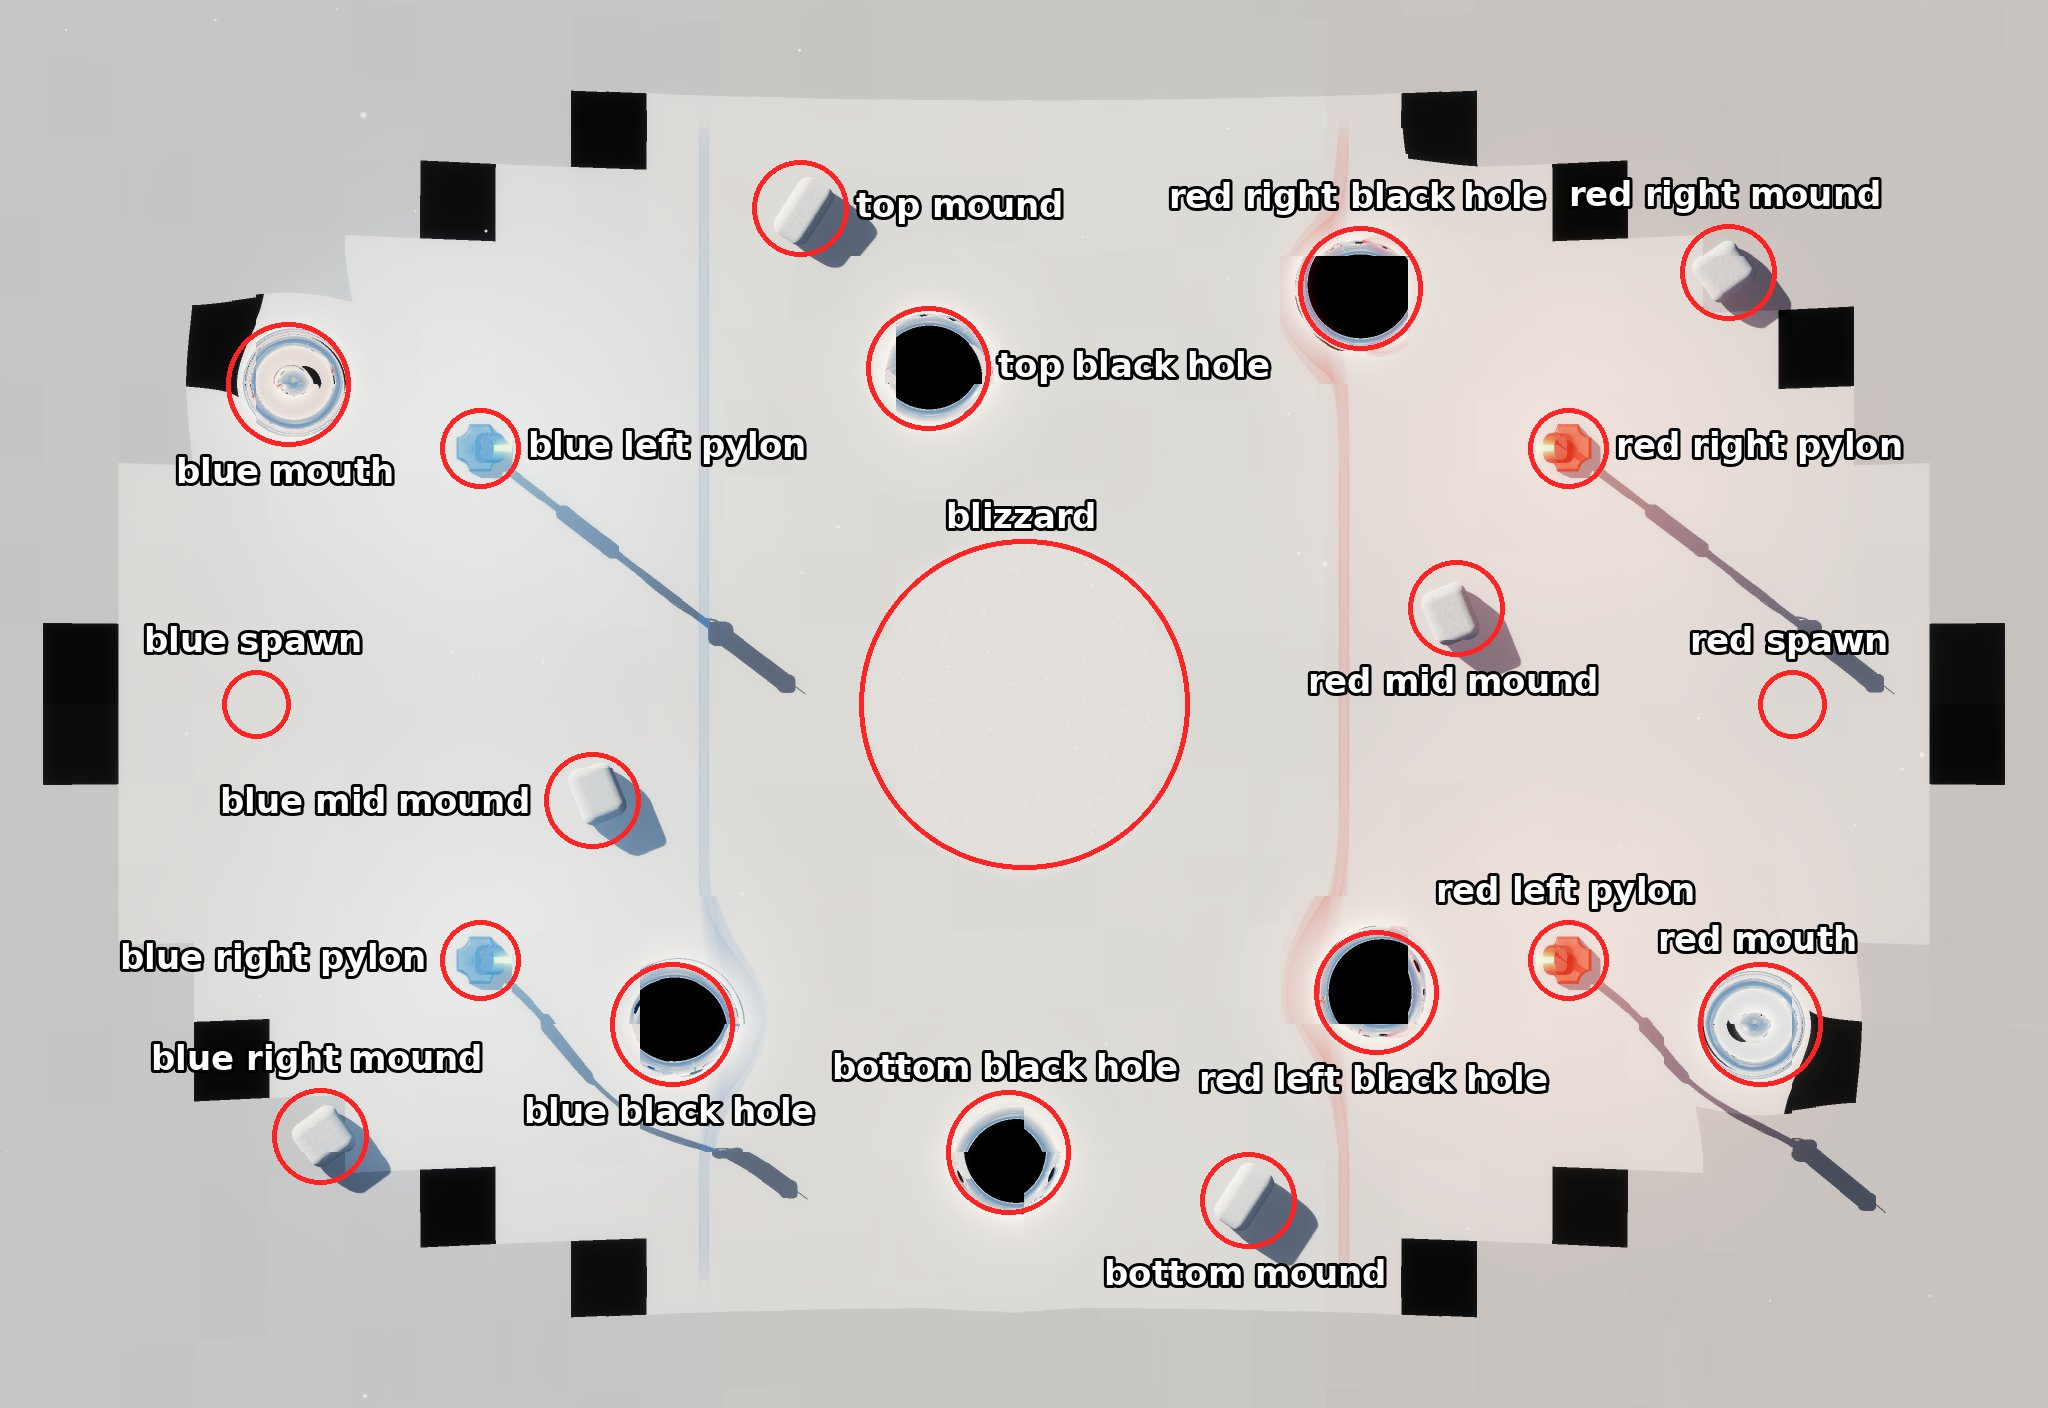
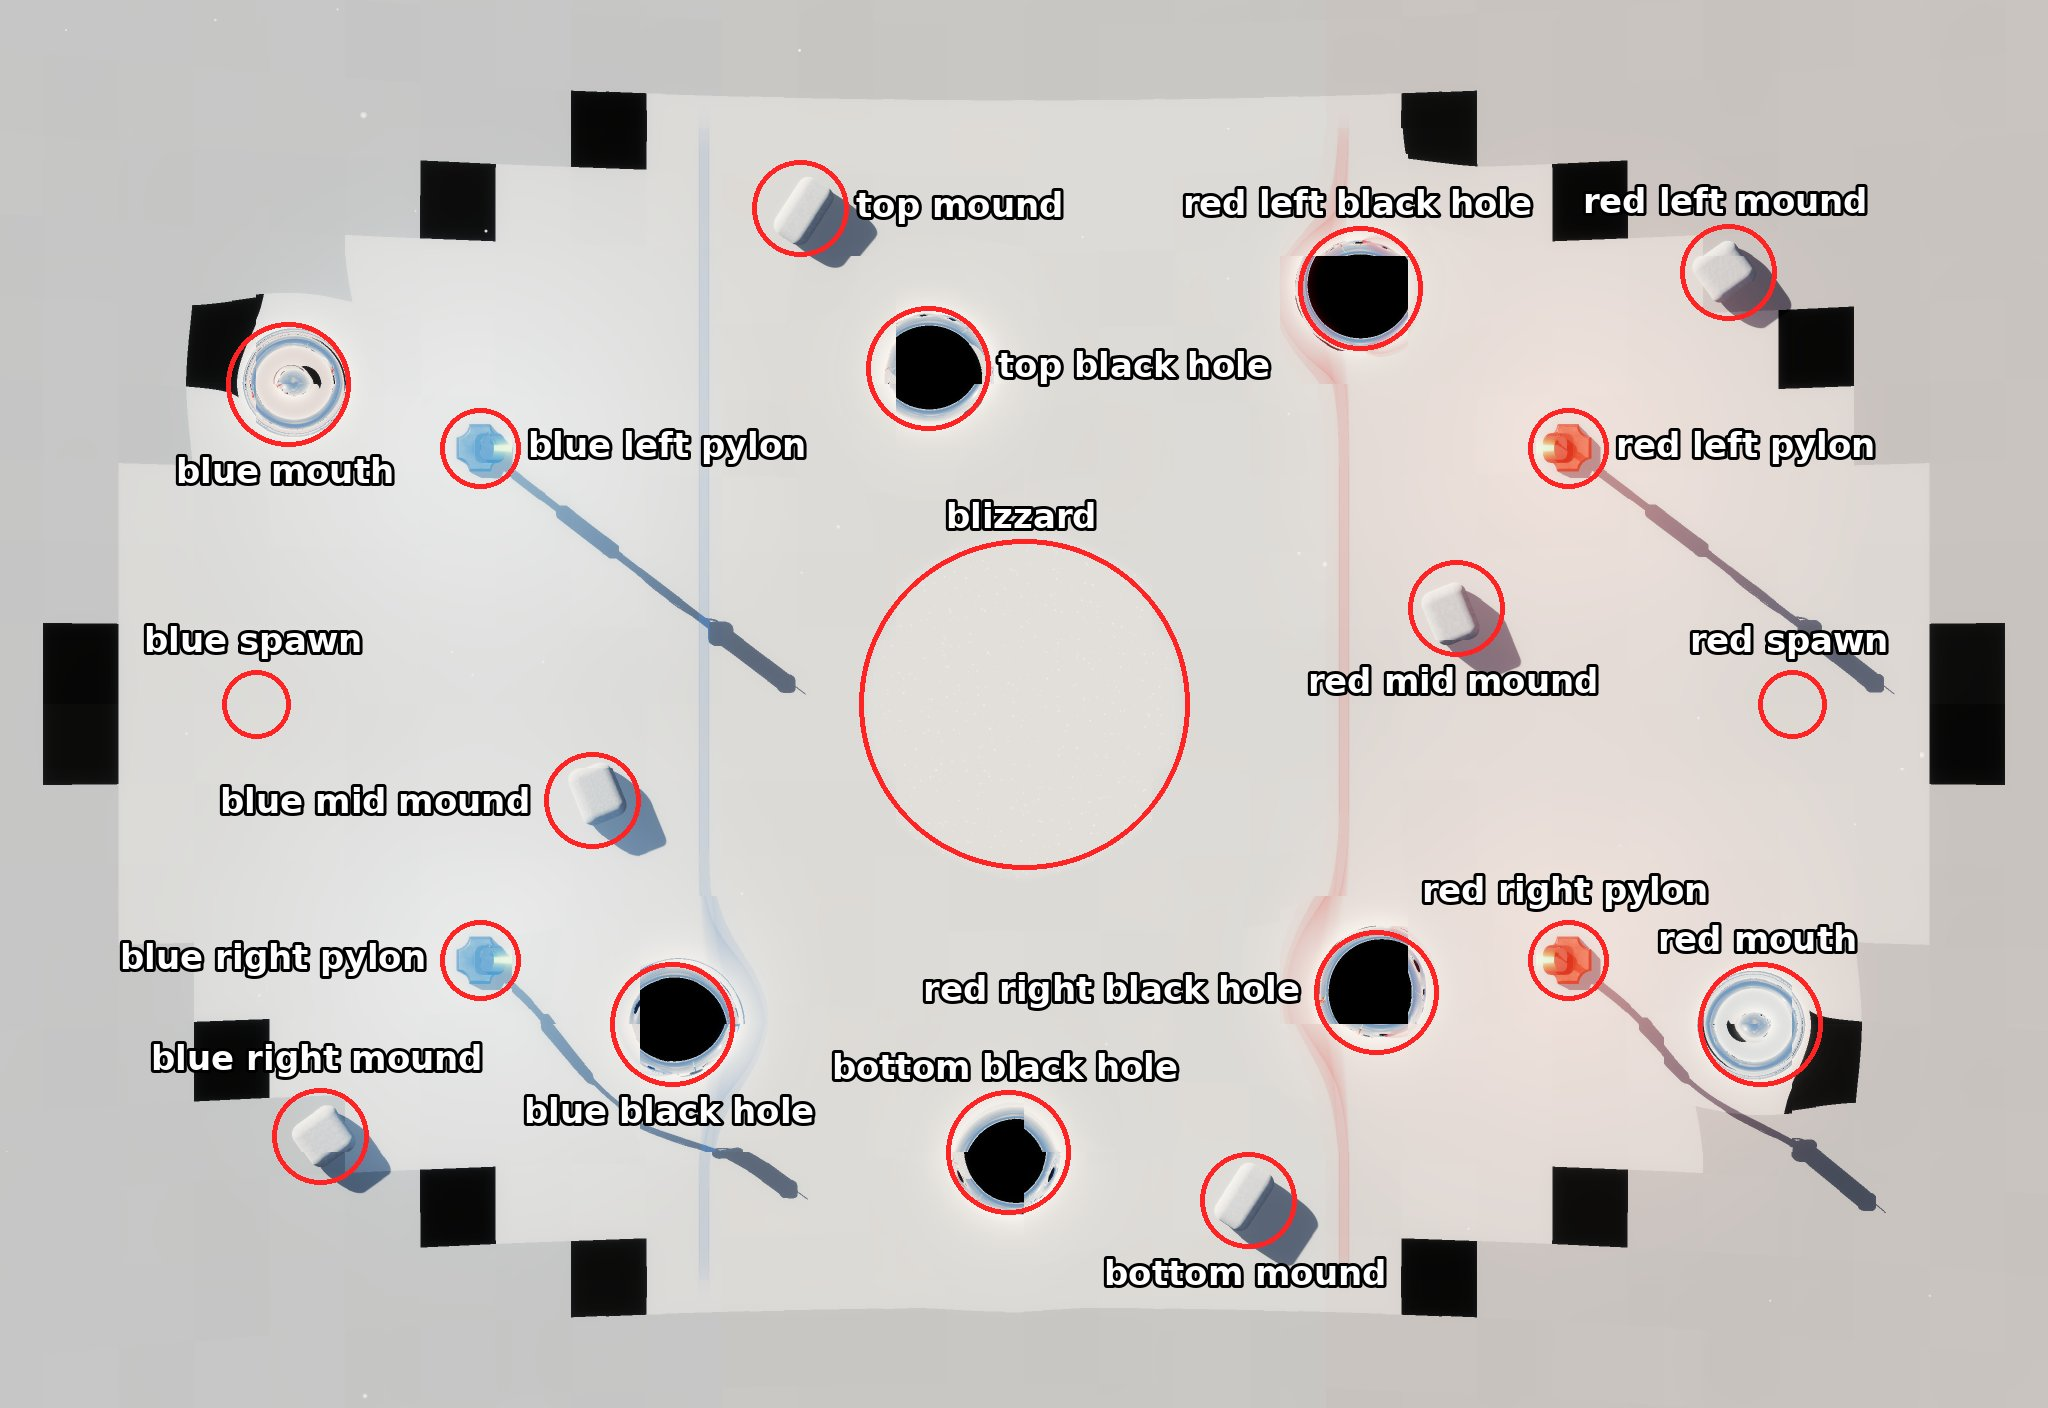
docs(game_design): Snow Planet's world names red's objects from blue's side
Red's left and right pylons, mound and black holes swap names, in the
file and on the picture, so that left, mid and right are seen from
blue's spawn as the worlds README now says. The picture was redrawn
by the same scratch script with only those names swapped.

AGENT TRACES

* Cursor Cloud Agent claude-opus-5-5-high, trace bc-94920122-6130-4e3d-bf9f-13da367e9d4c, cloud
  contributed: renamed red's left and right objects and redrew the picture
  workspace: /home/ubuntu/wt-reorder, branch cursor/world-snow-planet-9d4c
  transcript: https://cursor.com/agents/bc-94920122-6130-4e3d-bf9f-13da367e9d4c
  read it: open https://cursor.com/agents/bc-94920122-6130-4e3d-bf9f-13da367e9d4c

Kind: docs, design
Component: game-design
Domain: level-layout
Area: game_design
Read: game_design/worlds/README.md, game_design/worlds/snow_planet.md
Verify: each of red's new left objects is on blue's left in common/maps/snow_planet/map.json (black hole south-east, x < 0); nothing was run

diff --git a/game_design/worlds/snow_planet.md b/game_design/worlds/snow_planet.md
@@ -7,7 +7,7 @@ level's length: the blue zone is more than 20 m from the middle on blue's side, 
 side, and the middle zone lies between.
 
 The picture marks the game's map picture of Snow Planet (`demos/snow_planet_rust/map_pictures/snow_planet.png`), with
-blue on the left, so blue's left is the top of the picture and red's left is the bottom. Names follow the
+blue on the left, so left (blue's left) is the top of the picture. Names follow the
 [naming rules](README.md#naming-rules); the layout is
 [`common/maps/snow_planet/map.json`](../../common/maps/snow_planet/map.json).
 
@@ -30,7 +30,7 @@ Snow Planet
 └── red zone
     ├── red spawn
     ├── red left pylon, red right pylon
-    ├── red mid mound, red right mound
+    ├── red mid mound, red left mound
     ├── red left black hole, red right black hole
     └── red mouth
 ```
@@ -59,10 +59,10 @@ Snow Planet
 | Name | What it is | Name in the level layout |
 | --- | --- | --- |
 | **red spawn** | Where red's players enter the level. | red spawn |
-| **red left pylon**, **red right pylon** | Red's two pylons, left and right as seen from red's spawn facing blue. | red pylon |
+| **red left pylon**, **red right pylon** | Red's two pylons, left and right as seen from blue's spawn facing red. | red pylon |
 | **red mid mound** | The snow mound in front of red's spawn. | red snow mound |
-| **red right mound** | The snow mound behind red's right pylon. | red snow mound |
-| **red left black hole**, **red right black hole** | The two black holes at the edge of the red zone, left and right as seen from red's spawn. | black hole north-east, black hole south-east |
+| **red left mound** | The snow mound behind the red left pylon. | red snow mound |
+| **red left black hole**, **red right black hole** | The two black holes at the edge of the red zone, left and right as seen from blue's spawn. | black hole south-east, black hole north-east |
 | **red mouth** | The red zone's mouth of the wormhole that leads to the blue mouth. | wormhole mouth B |
 
 The layout's compass names for the black holes don't match the main map's top and bottom; the world names are the
